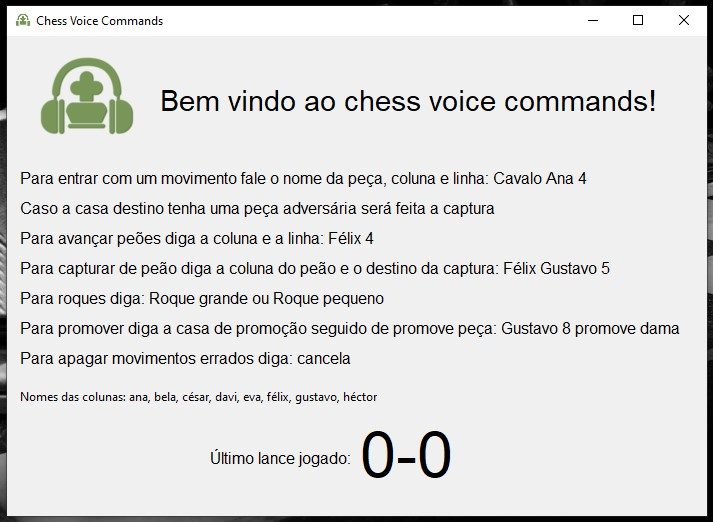
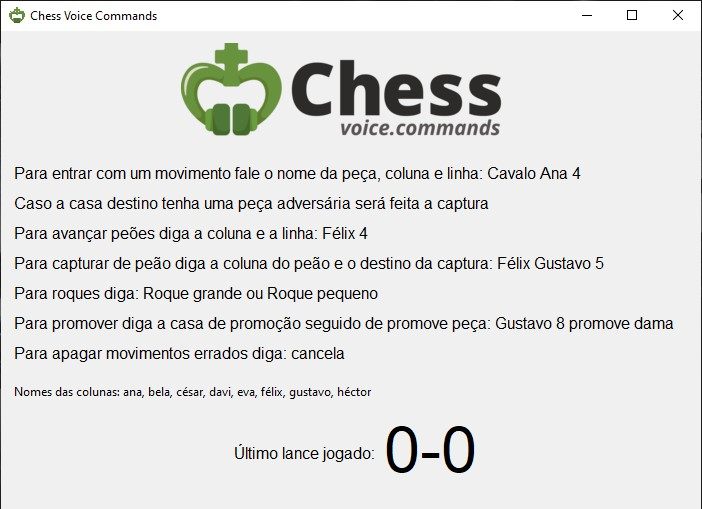
Adicionado novas imagens

Changed region(s): [[0.0, 0.0, 1.0, 1.0], [0.0598, 0.0884, 0.9274, 0.2652], [0.2991, 0.8251, 0.688, 0.943]]

diff --git a/index.html b/index.html
@@ -17,8 +17,7 @@
 </head>
 <body>
   <div class="container">
-    <img class="chess-icon" src="images/icon.png" alt="Ícone do Chess Voice Commands">
-    <h1>Chess Voice Commands</h1>  
+    <img class="chess-icon" src="images/logo.png" alt="Ícone do Chess Voice Commands">
   </div>
   <header class="header">
     <div class="icon-text-box">

diff --git a/style.css b/style.css
@@ -61,6 +61,12 @@ img {
   max-width:100%;
 }
 
+.chess-icon {
+  max-width:30%;
+  margin: 0 auto;
+  margin-top: 40px;
+}
+
 .container {
   display: flex;
   justify-content: center;
